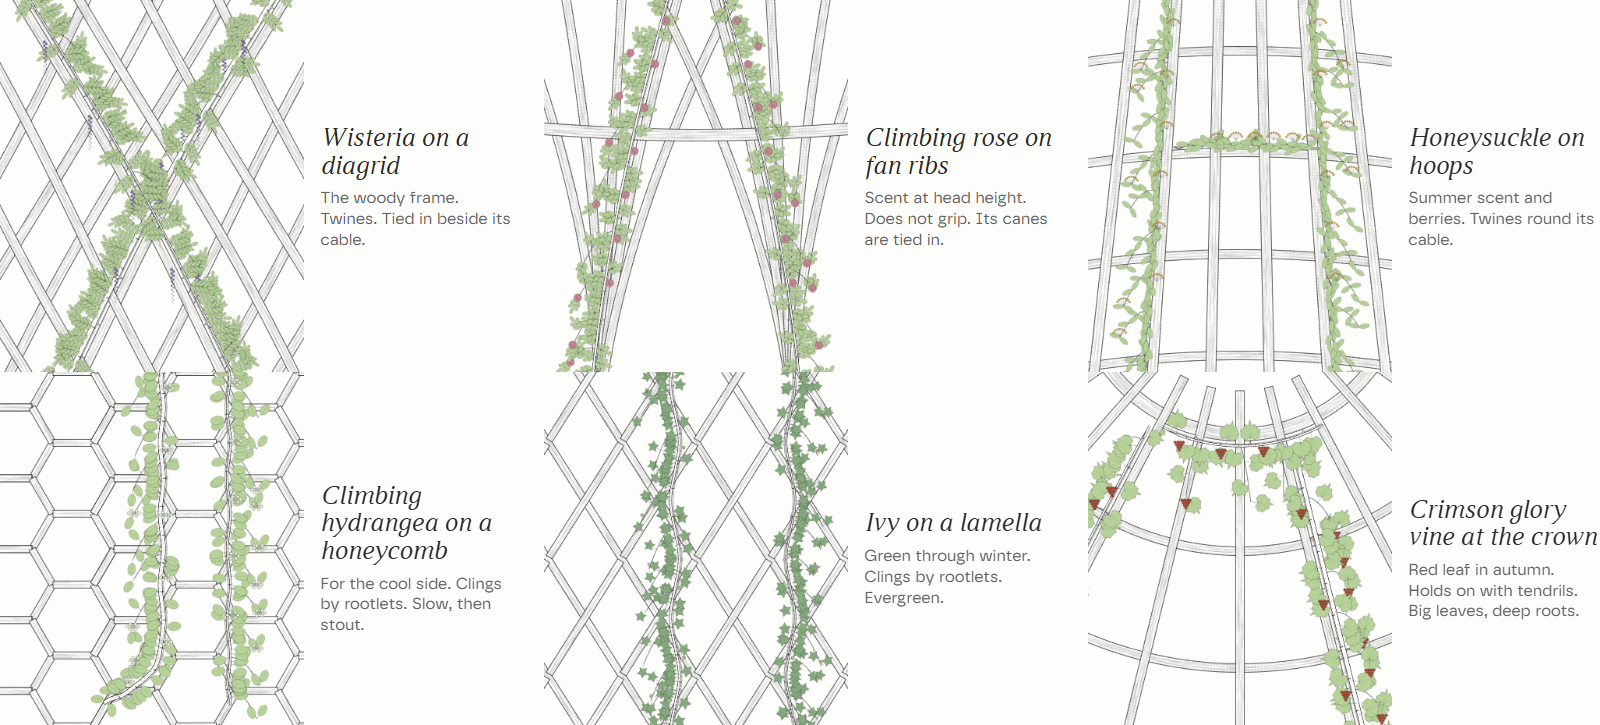
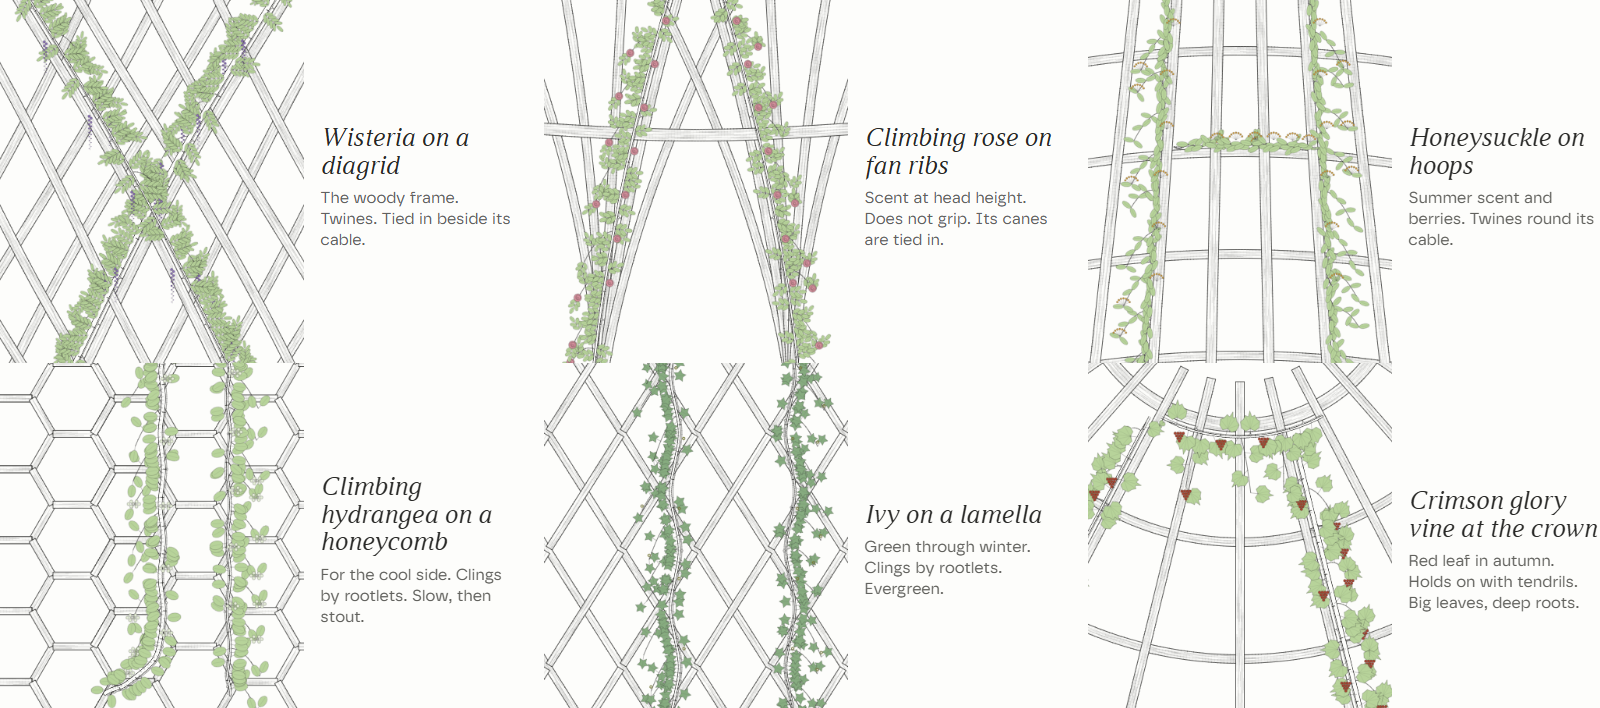
fix(deck): match loading previews and vary opening layouts

diff --git a/deck/designx/v8/assets/ecology-drawings/the-living-place.js b/deck/designx/v8/assets/ecology-drawings/the-living-place.js
@@ -5,7 +5,7 @@
    The ground is solid: what is below it shows only on the cut edge of the plug. */
 (function(){
   const canvas=document.getElementById('siteC'),lab=document.getElementById('date5'),MD=window.BW_MODEL;if(!canvas||!MD)return;
-  const W=1600,H=960,k=drawingScale(W,H,1.25),SC=36,PHI=28*Math.PI/180,SPH=Math.sin(PHI),CPH=Math.cos(PHI),CX=640,CY0=506,RB=15.5,DEP=3.6;
+  const W=1600,H=960,k=drawingScale(W,H,1.25),SC=36,PHI=28*Math.PI/180,SPH=Math.sin(PHI),CPH=Math.cos(PHI),CX=800,CY0=506,RB=15.5,DEP=3.6;
   const walker = makeWalker(k);
   canvas.width=W*k;canvas.height=H*k;
   const g=canvas.getContext('2d');g.setTransform(k,0,0,k,0,0);g.lineCap='round';g.lineJoin='round';
@@ -140,15 +140,6 @@
 
   /* ---- people ---- */
   const WALK=[{rad:3.1,v:1.05,a0:.4,h:1.68,o:{skirt:1,bun:1}},{rad:7.45,v:-1.15,a0:2.2,h:1.76,o:{coat:1}},{rad:7.45,v:-1.15,a0:2.33,h:1.16,o:{head:1.28}}];
-
-  /* ---- annotations: one column on the right; leaders deepen while their subject is on that side ---- */
-  const NOTE=[
-    ['Old oak kept. Nothing is dug','inside its root circle.',[OAK[0],OAK[1],1.2]],
-    ['South piers: wisteria, rose,','jasmine. Sun to flower.',[2.9,-5,2.3]],
-    ['North piers: ivy, hydrangea.','Leaf held through winter.',[-2.9,5,2.3]],
-    ['West pier: Japanese wisteria.','Metre-long flowers, clear headroom.',[-5.6,0,2.7]],
-    ['Steel feet on screw piles.','The soil stays open.',[6.2,0,.2]],
-    ['A boardwalk crosses the swale,','which holds the rain.',[SWALE[0],SWALE[1],0]]];
 
   /* leaf sprays and foliage arcs are stamped from one small pre-drawn atlas: thousands a frame would be too slow as paths */
   const AQ=k*1.5,CELL=24,atlas=document.createElement('canvas');atlas.width=Math.ceil(12*CELL*AQ);atlas.height=Math.ceil(5*CELL*AQ);
@@ -347,12 +338,6 @@
     g.globalAlpha=1;
     grass(false);
     for(let i=0;i<3;i++){const x=((sec*(26+i*7)+i*430)%(1250))-40,y=60+i*30+9*Math.sin(sec*.6+i*2),fl=Math.sin(sec*8+i*1.7)*4;[-1,1].forEach(sd=>{g.beginPath();g.moveTo(x,y);g.quadraticCurveTo(x+sd*4,y-3-fl,x+sd*8,y-fl*.6);g.strokeStyle=ink(.6);g.lineWidth=.8;g.stroke();});}
-    /* annotations and scale */
-    g.textAlign='left';g.textBaseline='alphabetic';
-    NOTE.forEach((n,i)=>{const y=190+i*112,p=P(n[2][0],n[2][1],n[2][2]),on=clamp((p[0]-(CX-60))/170,0,1);
-      {g.beginPath();g.moveTo(1258,y-6);g.lineTo(1232,y-6);g.lineTo(p[0],p[1]);g.strokeStyle=ink(.24+.26*on);g.lineWidth=.8;g.stroke();g.fillStyle=ink(.4+.5*on);g.beginPath();g.arc(p[0],p[1],2.8,0,7);g.fill();}
-      g.font='19px Safiro,Arial,sans-serif';g.fillStyle=ink(.67+.25*on);g.fillText(n[0],1266,y);g.fillText(n[1],1266,y+25);});
-    {const x0=70,y0=926;line([[x0,y0],[x0+10*SC,y0]],2,.95);[0,5,10].forEach(m=>{line([[x0+m*SC,y0-7],[x0+m*SC,y0]],1.3,.95);g.font='14px Safiro,Arial,sans-serif';g.textAlign='center';g.fillStyle=ink(.85);g.fillText(m===10?'10 m':String(m),x0+m*SC,y0-12);});}
     const m=2+Math.round(f*111/3)*3,txt=MN[m%12]+' '+(2027+Math.floor(m/12));if(txt!==shown){shown=txt;lab.textContent=txt;}
   }
   const AZ0=.5,CYC=30000;

diff --git a/deck/designx/v8/ecology.css b/deck/designx/v8/ecology.css
@@ -44,13 +44,19 @@
 
 /* The opening drawings use the frame as a field, with copy at its edges. */
 .designx-v8 .v8-ecology[data-ecology-layout="space"],
-.designx-v8 .v8-ecology[data-ecology-layout="place"] {
+.designx-v8 .v8-ecology[data-ecology-layout="place"],
+.designx-v8 .v8-ecology[data-ecology-layout="roots"],
+.designx-v8 .v8-ecology[data-ecology-layout="piers"],
+.designx-v8 .v8-ecology[data-ecology-layout="palette"] {
   display: block;
   padding: 0;
 }
 
 .v8-ecology[data-ecology-layout="space"] figure,
-.v8-ecology[data-ecology-layout="place"] figure {
+.v8-ecology[data-ecology-layout="place"] figure,
+.v8-ecology[data-ecology-layout="roots"] figure,
+.v8-ecology[data-ecology-layout="piers"] figure,
+.v8-ecology[data-ecology-layout="palette"] figure {
   display: block;
 }
 
@@ -86,10 +92,62 @@
   font-size: 21px;
 }
 
-.v8-ecology[data-ecology-layout="place"] .v8-ecology-note {
+.v8-ecology[data-ecology-layout="roots"] .v8-ecology-art {
+  position: absolute;
+  inset: 24px 28px 118px 310px;
+}
+
+.v8-ecology[data-ecology-layout="roots"] h2 {
+  position: absolute;
+  top: 96px;
+  left: 58px;
+  width: 265px;
+  font-size: 52px;
+  line-height: 1.12;
+}
+
+.v8-ecology[data-ecology-layout="piers"] .v8-ecology-art {
+  position: absolute;
+  inset: 112px 48px 122px;
+}
+
+.v8-ecology[data-ecology-layout="piers"] h2 {
+  position: absolute;
+  top: 36px;
+  right: 58px;
+  font-size: 50px;
+  text-align: right;
+}
+
+.v8-ecology[data-ecology-layout="palette"] .v8-ecology-art {
+  position: absolute;
+  inset: 24px 36px 142px;
+}
+
+.v8-ecology[data-ecology-layout="palette"] h2 {
+  position: absolute;
+  right: 58px;
+  bottom: 59px;
+  font-size: 48px;
+}
+
+.v8-ecology[data-ecology-layout="roots"] figcaption,
+.v8-ecology[data-ecology-layout="piers"] figcaption,
+.v8-ecology[data-ecology-layout="palette"] figcaption {
   position: absolute;
   left: 58px;
-  bottom: 23px;
+  bottom: 65px;
+  font-size: 21px;
+}
+
+.v8-ecology[data-ecology-layout="palette"] figcaption { max-width: 820px; }
+
+.v8-ecology[data-ecology-layout="roots"] .v8-ecology-note,
+.v8-ecology[data-ecology-layout="piers"] .v8-ecology-note,
+.v8-ecology[data-ecology-layout="palette"] .v8-ecology-note {
+  position: absolute;
+  left: 58px;
+  bottom: 25px;
   font-size: 15px;
 }
 

diff --git a/deck/designx/v8/ecology.js b/deck/designx/v8/ecology.js
@@ -10,21 +10,35 @@
     const slug = escape(item.ecologyDrawing);
     const space = item.ecologyDrawing === 'nature-makes-space';
     const place = item.ecologyDrawing === 'the-living-place';
-    const layout = space ? 'space' : place ? 'place' : 'standard';
+    const growth = item.ecologyDrawing !== 'why-these-plants';
+    const layouts = {
+      'nature-makes-space': 'space',
+      'the-living-place': 'place',
+      'rooted-before-it-climbs': 'roots',
+      'six-piers-six-climbers': 'piers',
+      'why-these-plants': 'palette'
+    };
+    const layout = layouts[item.ecologyDrawing];
     return `<section class="v8-ecology" data-ecology-layout="${layout}" aria-label="${escape(item.title)}">
       ${space ? '' : `<h2>${escape(item.title)}</h2>`}
       <figure>
         <div class="v8-ecology-art" data-ecology-drawing="${slug}">
-          <img src="${assets}stills/${slug}.png" alt="${escape(item.alt)}" loading="lazy">
+          <picture>
+            ${growth ? `<source media="screen and (prefers-reduced-motion: no-preference)" srcset="${assets}stills/${slug}-opening.png">` : ''}
+            <img src="${assets}stills/${slug}.png" alt="${escape(item.alt)}" loading="lazy">
+          </picture>
         </div>
         <figcaption>${escape(item.caption)}</figcaption>
       </figure>
-      ${space ? '' : '<p class="v8-ecology-note">Working drawing, not reviewed by a horticulturist.</p>'}
+      ${space || place ? '' : '<p class="v8-ecology-note">Working drawing, not reviewed by a horticulturist.</p>'}
     </section>`;
   }
 
-  function mount() {
-    if (location.protocol === 'file:' || document.body.classList.contains('print-mode')) return;
+  function mount(root) {
+    if (location.protocol === 'file:' || document.body.classList.contains('print-mode')) {
+      root.querySelectorAll('.v8-ecology source').forEach(source => { source.media = 'not all'; });
+      return;
+    }
     const reducedMotion = matchMedia('(prefers-reduced-motion: reduce)');
     let selected = null;
     let frame = null;

diff --git a/deck/designx/v8/edition.css b/deck/designx/v8/edition.css
@@ -64,6 +64,24 @@
 @media print{.designx-v8 .v8-growth-print-status{display:block}}
 
 /* Keep the 1600px stage inside a phone viewport until the viewer measures it. */
+.designx-v8 .v8-canopy-orbit-scene .v7-title {
+  top: auto;
+  bottom: 177px;
+  left: 58px;
+  right: auto;
+  max-width: 340px;
+  font-size: 56px;
+  line-height: 1.08;
+}
+.designx-v8 .v8-growth-light .v7-title {
+  top: 34px;
+  left: 350px;
+  right: 350px;
+  max-width: none;
+  font-size: 60px;
+  text-align: center;
+}
+
 @media screen and (max-width: 650px) {
   .designx-v8:not(.print-mode) .deck-stage { --deck-scale: .1; }
 }

diff --git a/deck/designx/v8/assets/ecology-drawings/SOURCES.md b/deck/designx/v8/assets/ecology-drawings/SOURCES.md
@@ -4,6 +4,8 @@ These five drawings come from draft 20 of the Bower LUMA Studio Pitch ecology se
 
 ## What comes from where
 
+Opening-state stills are captured from the same renderers at elapsed time zero. The live slides use these while loading, so playback begins from the pictured state. Print and reduced motion use the full-growth stills. The site view omits its original annotation column and scale bar, and centers the drawing in the space they occupied.
+
 | What appears in the drawings | Source | How it was used |
 | --- | --- | --- |
 | Timber sections, cables and planting stations in *The living place* | [Room geometry at Auxin commit 641ca40](https://github.com/cseifert512/Auxin/blob/641ca40342fb25da2b41e4819d9e06b6481c438e/drawings-in-code/scenes/six-bay-radial-open-pier/bower.json) | Read from the scene and embedded as `BW_MODEL`. |
